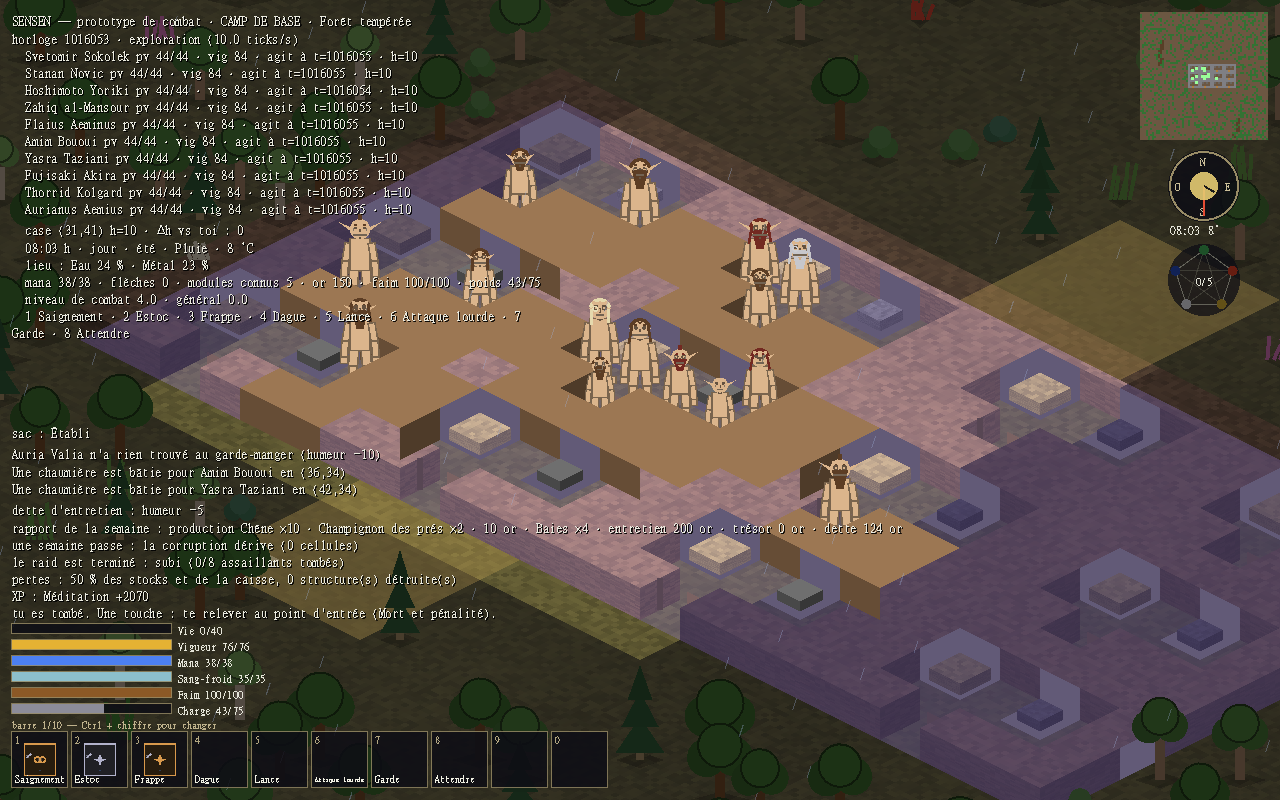
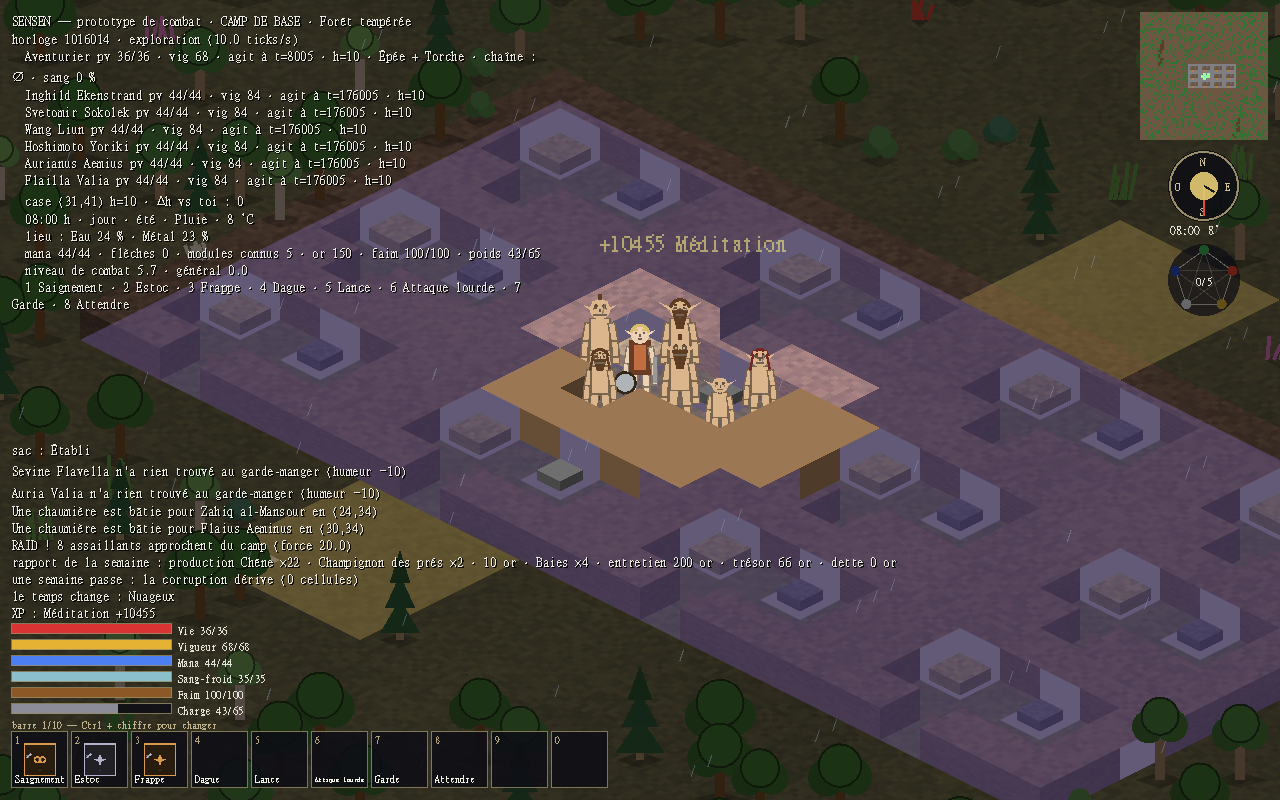
La triche « invincible » vaut aussi contre la famine
Vu sur la capture de la grande base : six semaines passees d'un coup tuaient le joueur malgre la
triche, parce que la famine ecrit la sante directement sans passer par les degats. Le joueur
invincible ne meurt plus de faim. La capture captures/grande_base.png est reprise avec un joueur
debout.

Changed region(s): [[0.0, 0.0625, 0.875, 0.8438], [0.0625, 0.875, 0.0938, 0.9062]]

diff --git a/docs/00 - Index/À juger — parcours de jeu.md b/docs/00 - Index/À juger — parcours de jeu.md
@@ -463,5 +463,7 @@ Le designer, 14 h : « simule une grande base sur plusieurs cases avec une vingt
 
 **6. Les migrants ne viennent pas** tant que la base est pleine (4 par cellule × 5 = 20), et une fois les départs commencés la chance (0,2 par semaine) n'en a amené aucun en quatre semaines.
 
+**7. En passant, sur la capture : « XP : Méditation +10 455 ».** Six semaines d'attente d'un coup — la régénération de mana donne 1 XP de Méditation à chaque tranche de 10 ticks tirée (1 chance sur 8), et la Récupération pareil sur la vigueur. Une nuit de sommeil (8 000 ticks) en donne donc une centaine sans rien faire. Est-ce voulu que dormir entraîne ?
+
 **Ce que je propose, si le designer me laisse trancher** : rien de tout cela n'est un bug, ce sont les chiffres. Les deux qui rendent la base injouable sont l'entretien (1) et la faim (2). Le geste conservateur : que le bois, le minerai et les plantes récoltés **valent de l'or au rapport de la semaine** (vendus au prix suggéré × la marge de la boutique) — la base se paierait avec ses zones, ce qui est la promesse des périmètres —, et un rendement de fermier à **une bouche par tuile de champ** plutôt qu'à l'heure. Les deux se règlent en données.
 

diff --git a/docs/08 - Technique/Écrans d'interface.md b/docs/08 - Technique/Écrans d'interface.md
@@ -240,4 +240,4 @@ Inventaire+équipement (avec poids), Craft (recettes des stations à portée, [[
 
 > [!success] 2026-09-04, 14 h — le journal ne raconte plus les pas et les attentes des PNJ
 > Vu sur la capture de la grande base : neuf lignes « Untel attend (5 ticks, +20 vigueur) » d'affilée, écrites par les résidents oisifs autour du joueur, et des dizaines de « Untel : Récupération atteint le niveau 2 » par semaine. `journal.attendre` et `journal.deplacement` ne s'écrivent que pour le joueur ; `journal.niveau` pour le joueur et ses compagnons (ceux qui ont un maître), pas pour les résidents — leur progression se lit dans Territoire.
-
+> *Même jour : la triche « invincible » (le joueur ne perd plus de PV) laissait passer la famine, qui écrit la santé directement — vu sur la capture de la grande base, où six semaines d'un coup tuaient le joueur malgré la triche. Elle vaut désormais aussi contre la faim.*
